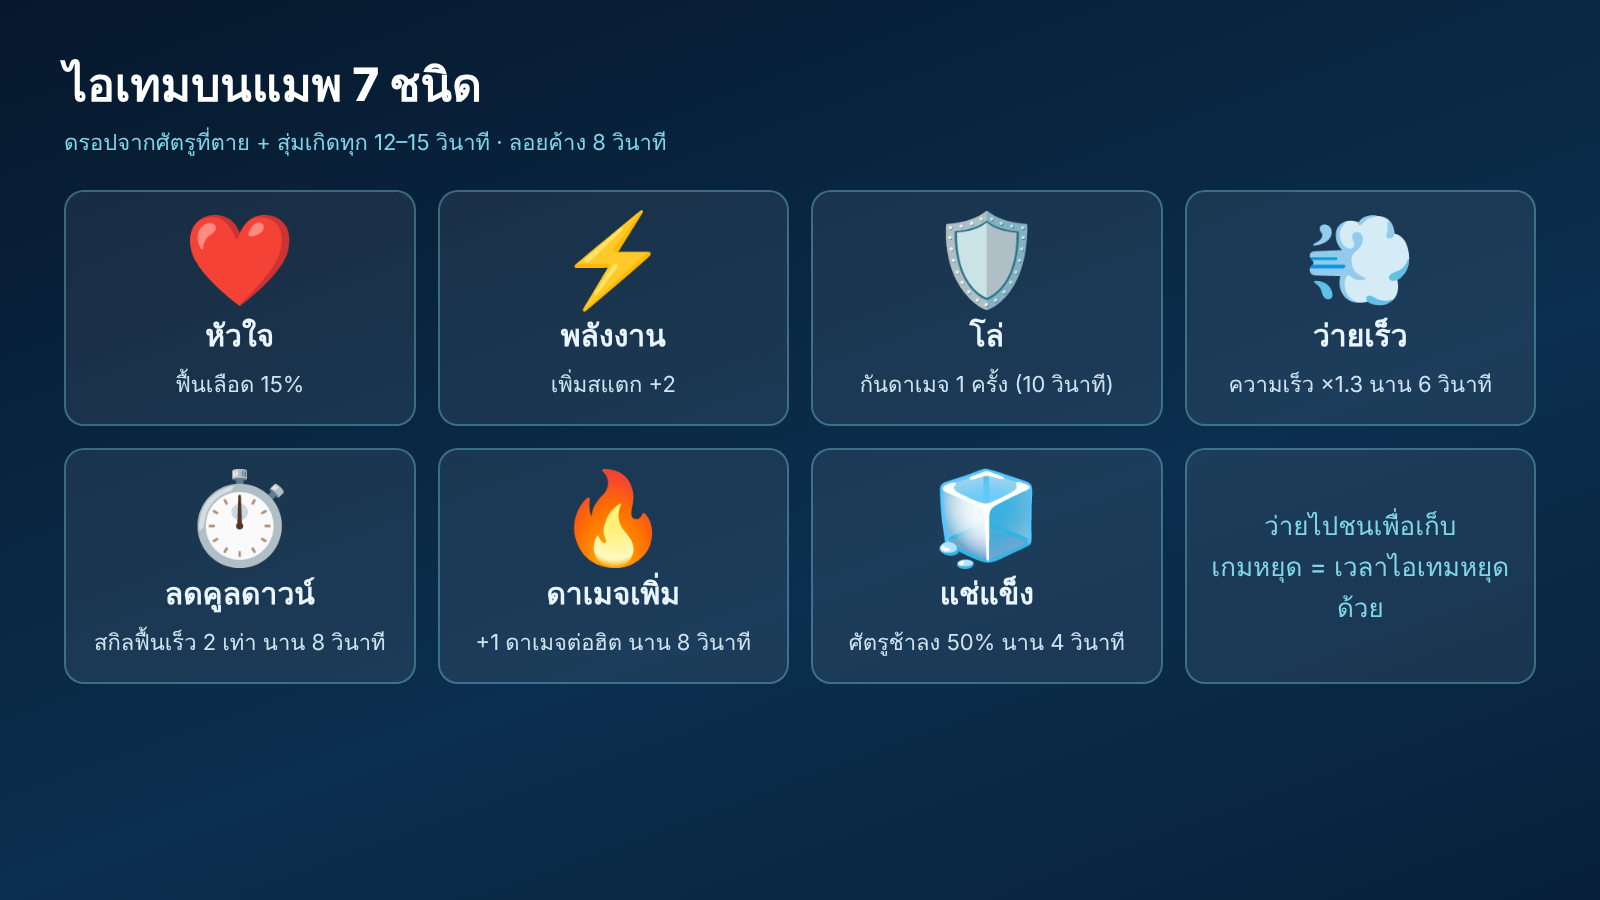
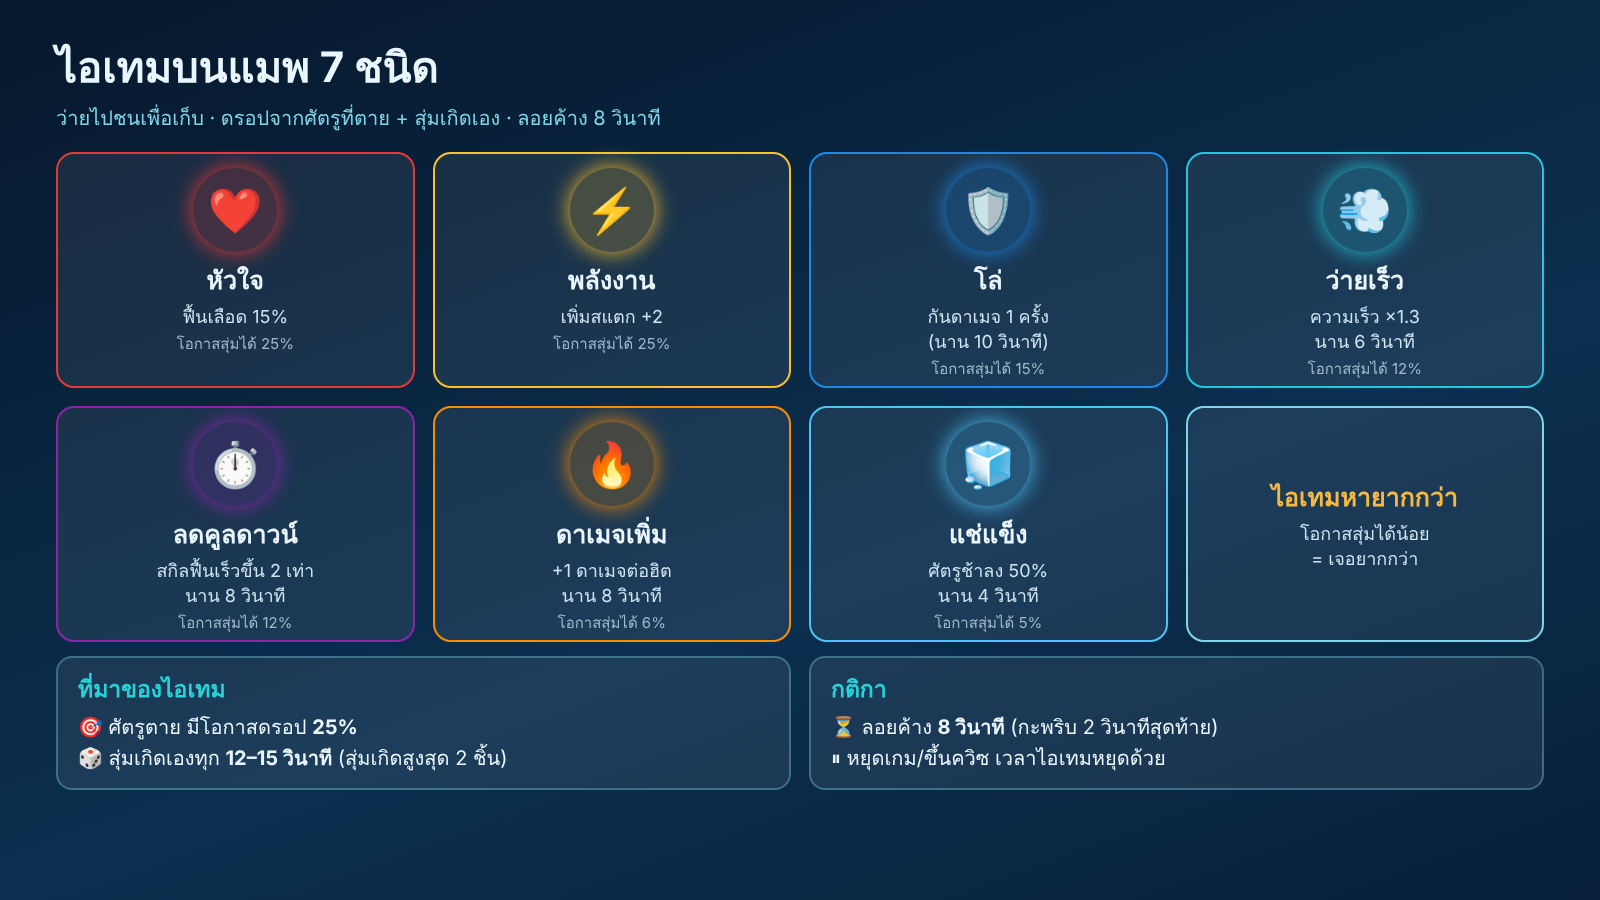
Slide 6: new items image and other-features image (sound, settings, practice mode)
Claude-Session: https://claude.ai/code/session_01XfaHiAR6PVVCd5DqTqK71P

diff --git a/slide_images/INDEX.md b/slide_images/INDEX.md
@@ -11,7 +11,7 @@
 | 3 Objectives | 03_Objectives | 6 จุดประสงค์ พร้อมไอคอน |
 | 4 Course Knowledge | 04_Course_Knowledge | Lecture 2–6 เทียบกับโค้ดจริง |
 | 5 System Design | 05_System_Design | 5.1 Class Diagram · 5.2 MVC · 5.3 Workflow · 5.4 UI (โฟลเดอร์ UI: 12 หน้าจอ + Storyboard ภาพรวม) · 5.5 Framework/Tools |
-| 6 Features | 06_Features | 6.1 ฮีโร่ · 6.2 ควิซ/ULT/หน้าแพ้ · 6.3 ด่าน/บอส · 6.4 ศัตรู · 6.5 ไอเทม · 6.6 ภาพต่อสู้ |
+| 6 Features | 06_Features | 6.1 ฮีโร่ · 6.2 ควิซ/ULT/หน้าแพ้ · 6.3 ด่าน/บอส · 6.4 ศัตรู · 6.5 ไอเทม (ภาพใหม่) · 6.7 ฟีเจอร์อื่นๆ (เสียง/ตั้งค่า/โหมดฝึก) · 6.6 ภาพต่อสู้ |
 | 7 Validation | 07_Validation | แผนทดสอบ |
 | 8 Potential | 08_Potential_NextStep | Roadmap |
 | 9 Challenges | 09_Challenges | ปัญหา-วิธีแก้ · ช่วงเตือนก่อนโจมตี |
